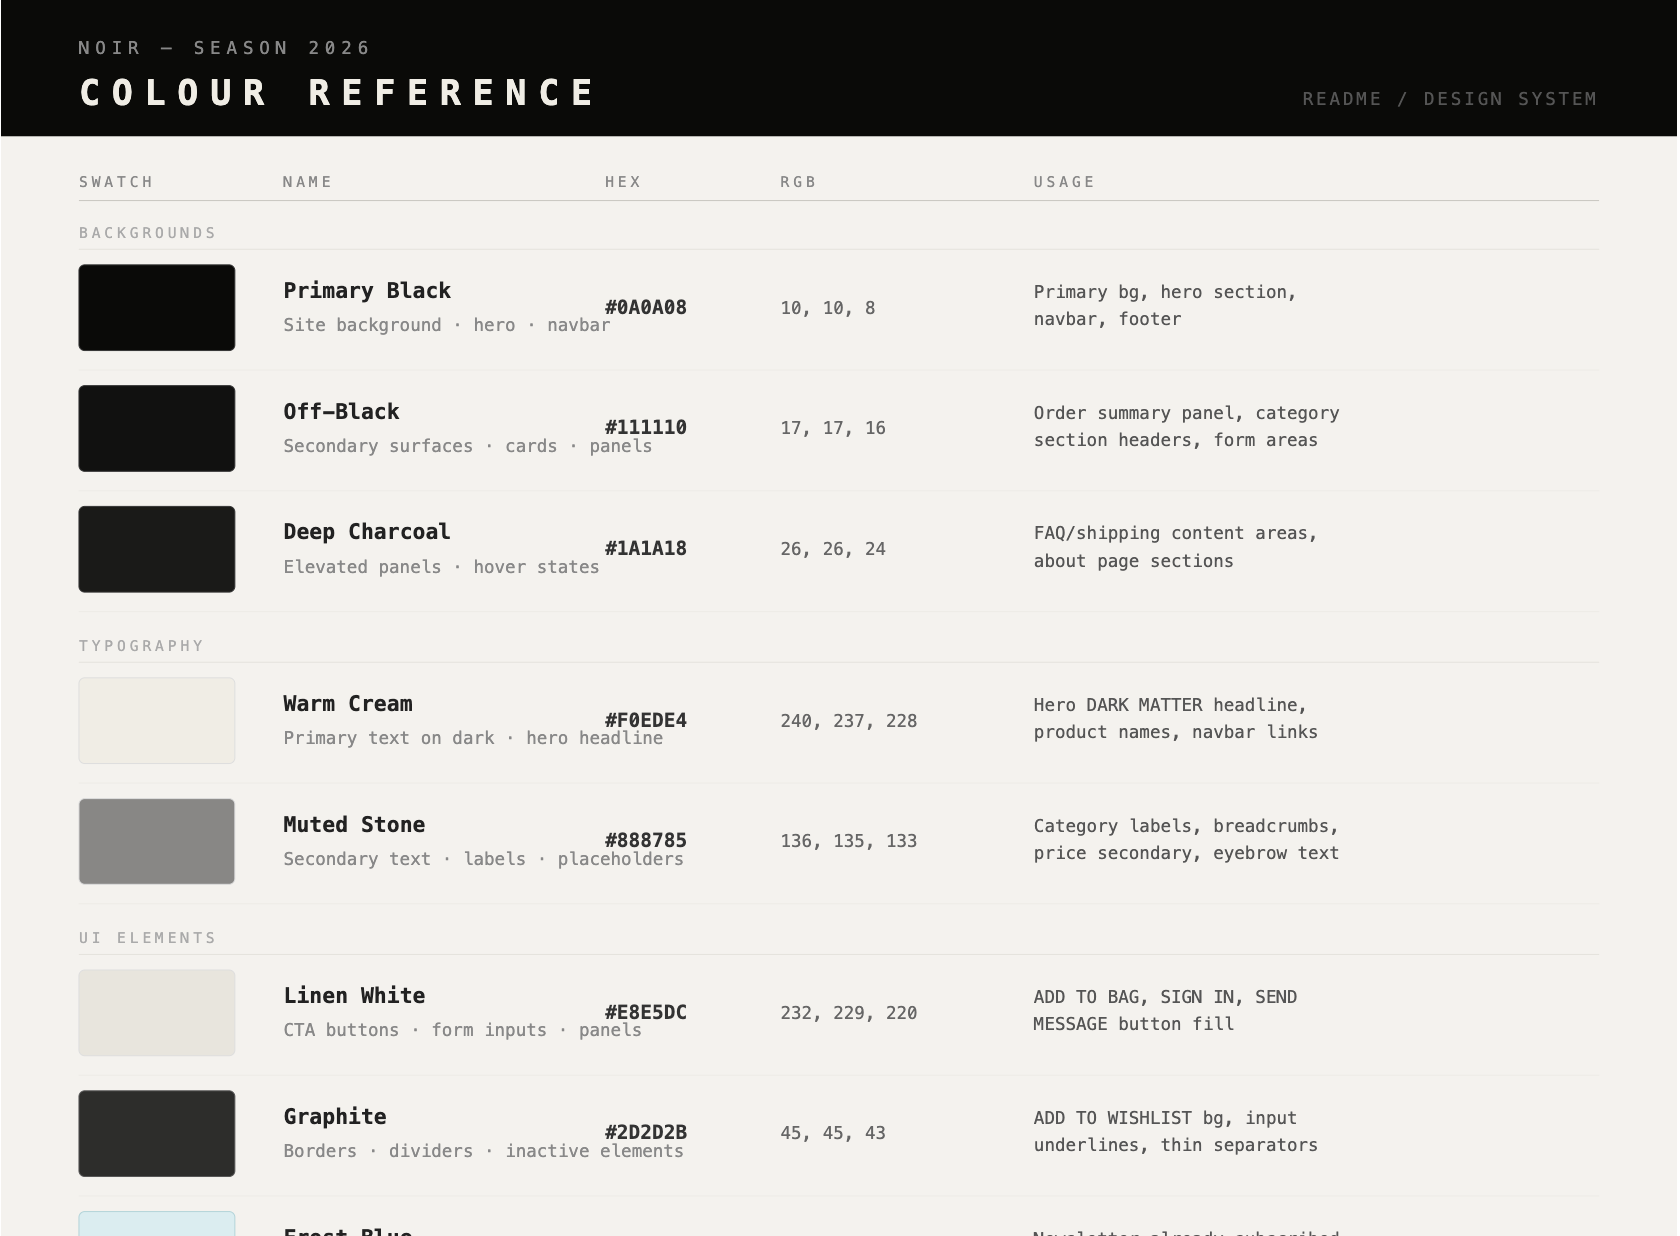
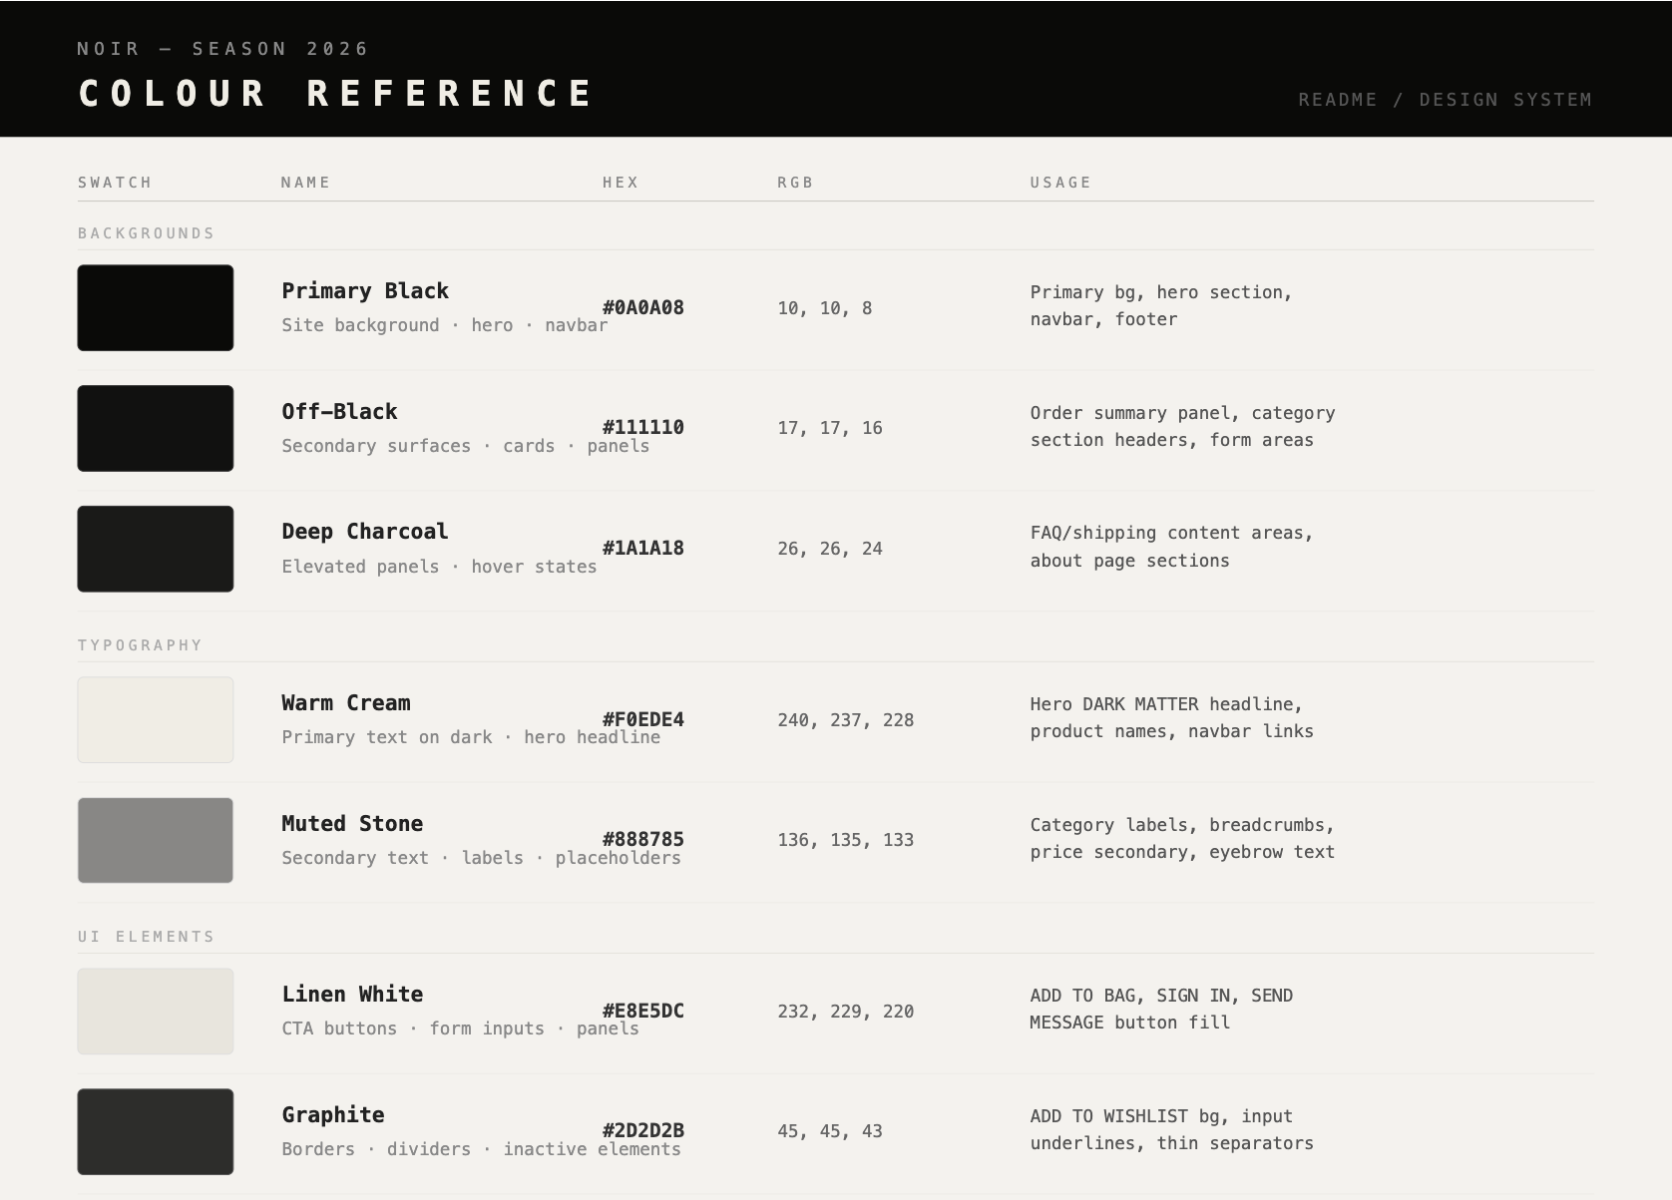
Add Scripture dedication at top of README and update colour palette image

diff --git a/README.md b/README.md
@@ -1,3 +1,7 @@
+> *"I can do all things through Christ who strengthens me."* — Philippians 4:13
+
+---
+
 # NOIR — Premium Menswear E-Commerce Store
 
 ![NOIR Logo](docs/noir_logo.png)
